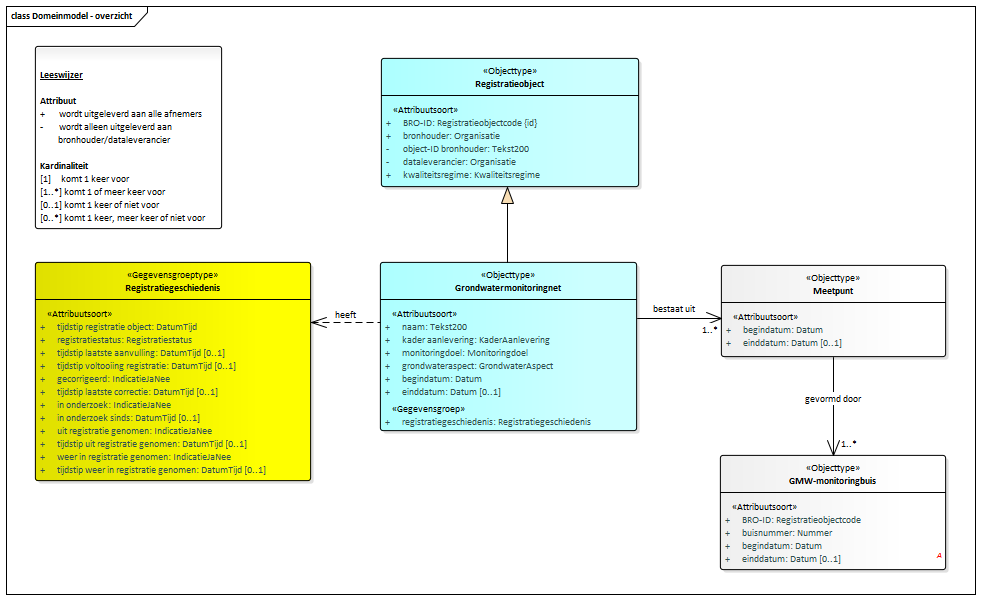
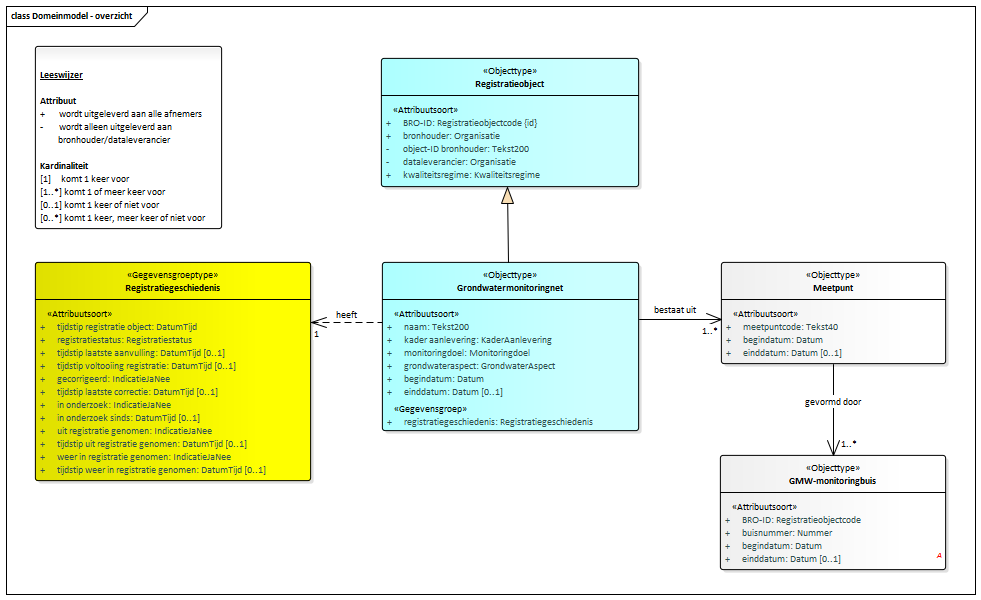
Conceptualmodel-GrondwatermonitoringnetGMN-0.9.1-2-20190328-20190815-160000

diff --git a/data/GMN-cat.html b/data/GMN-cat.html
@@ -1,15 +1,15 @@
 <section id="cat" class="normative" level="1">
    <h2>Gegevensdefinitie</h2>
    <p><b>Deze tekst is normatief.</b>
-      <!--Conceptualmodel-GrondwatermonitoringnetGMN-0.9.1-2-20190328-20190815-114349 imvertor 1.53.4--></p>
+      <!--Conceptualmodel-GrondwatermonitoringnetGMN-0.9.1-2-20190328-20190815-160000 imvertor 1.53.4--></p>
    <section id="" level="3">
       <h3>Het domeinmodel </h3>
       <div class="imageinfo overview"><img src="data/Images/EAID_16A72207_068F_4cb7_8848_6A51D3D09C6C.png" usemap="#imagemap-EAID_16A72207_068F_4cb7_8848_6A51D3D09C6C"><map name="imagemap-EAID_16A72207_068F_4cb7_8848_6A51D3D09C6C">
-            <area shape="rect" coords="721,357,946,265" alt="" href="#graph_EAID_FD4CB41D_3FA7_46c9_81A9_44C8869F16A6">
+            <area shape="rect" coords="721,364,946,262" alt="" href="#graph_EAID_FD4CB41D_3FA7_46c9_81A9_44C8869F16A6">
             <area shape="rect" coords="720,570,946,455" alt="" href="#graph_EAID_397885A2_C288_4430_A585_494C8A658C32">
             <area shape="rect" coords="35,481,311,262" alt="" href="#graph_EAID_BD3993BF_6865_40e4_96F8_64C29C82F35A">
             <area shape="rect" coords="381,187,639,58" alt="" href="#graph_EAID_AF36F25F_EDC0_4e99_A937_DF9E6889C6F0">
-            <area shape="rect" coords="380,431,637,262" alt="" href="#graph_EAID_A35817A4_9167_4620_BB25_5933C44F44E1"></map><p><b>Domeinmodel - overzicht</b></p>
+            <area shape="rect" coords="382,431,639,262" alt="" href="#graph_EAID_A35817A4_9167_4620_BB25_5933C44F44E1"></map><p><b>Domeinmodel - overzicht</b></p>
       </div>
    </section><a class="anchor" name="graph_EAID_AF36F25F_EDC0_4e99_A937_DF9E6889C6F0"></a><a class="anchor" name="global_class_BROGMN_Registratieobject"></a><section id="global_class_BROGMN_Registratieobject" level="3">
       <h3> Registratieobject</h3>
@@ -798,7 +798,69 @@
                      bestaat uit 1 of meer Meetpunt<br></td>
                </tr>
             </tbody>
-         </table><a class="anchor" name="detail_attribute_BROGMN_Meetpunt_begindatum"></a><section id="detail_attribute_BROGMN_Meetpunt_begindatum" level="5">
+         </table><a class="anchor" name="detail_attribute_BROGMN_Meetpunt_meetpuntcode"></a><section id="detail_attribute_BROGMN_Meetpunt_meetpuntcode" level="5">
+            <h5> meetpuntcode</h5>
+            
+            <table>
+               <colgroup width="30%"></colgroup>
+               <colgroup width="70%"></colgroup>
+               <tbody>
+                  <tr>
+                     <th>Type gegeven</th>
+                     <td>Attribuut</td>
+                  </tr>
+                  <tr>
+                     <th>Attribuut van</th>
+                     <td>Meetpunt</td>
+                  </tr>
+                  <tr>
+                     <th>Juridische status</th>
+                     <td>Authentiek</td>
+                  </tr>
+                  <tr>
+                     <th>Definitie</th>
+                     <td>
+                        
+                        <p xmlns="http://www.w3.org/1999/xhtml" xmlns:html="http://www.w3.org/1999/xhtml" xmlns:imvert="http://www.imvertor.org/schema/system">De code die het meetpunt identificeert binnen het grondwatermonitoringnet.</p>
+                        
+                     </td>
+                  </tr>
+                  <tr>
+                     <th>Kardinaliteit</th>
+                     <td>1</td>
+                  </tr>
+                  <tr>
+                     <th>Domein</th>
+                     <td></td>
+                  </tr>
+                  <tr>
+                     <th>&nbsp;&nbsp;Naam</th>
+                     <td>Tekst40</td>
+                  </tr>
+                  <tr>
+                     <th>&nbsp;&nbsp;Type</th>
+                     <td>Waardelijst uitbreidbaar</td>
+                  </tr>
+                  <tr>
+                     <th>&nbsp;&nbsp;Domein IMBRO/A</th>
+                     <td>OnvolledigeDatum</td>
+                  </tr>
+                  <tr>
+                     <th>Regels</th>
+                     <td>
+                        
+                        <p xmlns="http://www.w3.org/1999/xhtml" xmlns:html="http://www.w3.org/1999/xhtml" xmlns:imvert="http://www.imvertor.org/schema/system">De code is uniek binnen het grondwatermonitoringnet.</p>
+                        
+                     </td>
+                  </tr>
+                  <tr>
+                     <th>Materiële geschiedenis</th>
+                     <td>Nee</td>
+                  </tr>
+               </tbody>
+            </table>
+            
+         </section><a class="anchor" name="detail_attribute_BROGMN_Meetpunt_begindatum"></a><section id="detail_attribute_BROGMN_Meetpunt_begindatum" level="5">
             <h5> begindatum</h5>
             
             <table>
@@ -852,6 +914,14 @@
                      <td>
                         
                         <p xmlns="http://www.w3.org/1999/xhtml" xmlns:html="http://www.w3.org/1999/xhtml" xmlns:imvert="http://www.imvertor.org/schema/system">De begindatum van het meetpunt ligt niet voor de begindatum van het grondwatermonitoringnet.</p>
+                        
+                     </td>
+                  </tr>
+                  <tr>
+                     <th>Regels IMBRO/A</th>
+                     <td>
+                        
+                        <p xmlns="http://www.w3.org/1999/xhtml" xmlns:html="http://www.w3.org/1999/xhtml" xmlns:imvert="http://www.imvertor.org/schema/system">Domein IMBRO/A: OnvolledigeDatum.</p>
                         
                      </td>
                   </tr>
@@ -913,6 +983,16 @@
                         
                         <p xmlns="http://www.w3.org/1999/xhtml" xmlns:html="http://www.w3.org/1999/xhtml" xmlns:imvert="http://www.imvertor.org/schema/system">De einddatum van het meetpunt ligt na de begindatum van het meetpunt.
                            De einddatum van het meetpunt ligt niet na de einddatum van het grondwatermonitoringnet.
+                        </p>
+                        
+                     </td>
+                  </tr>
+                  <tr>
+                     <th>Regels IMBRO/A</th>
+                     <td>
+                        
+                        <p xmlns="http://www.w3.org/1999/xhtml" xmlns:html="http://www.w3.org/1999/xhtml" xmlns:imvert="http://www.imvertor.org/schema/system">Onder kwaliteitsregime IMBRO/A is dit gegeven altijd aanwezig.
+                           Domein IMBRO/A: OnvolledigeDatum.
                         </p>
                         
                      </td>
@@ -1131,7 +1211,15 @@
                      <th>Regels</th>
                      <td>
                         
-                        <p xmlns="http://www.w3.org/1999/xhtml" xmlns:html="http://www.w3.org/1999/xhtml" xmlns:imvert="http://www.imvertor.org/schema/system">De begindatum van het meetpunt ligt niet voor de begindatum van het meetpunt.</p>
+                        <p xmlns="http://www.w3.org/1999/xhtml" xmlns:html="http://www.w3.org/1999/xhtml" xmlns:imvert="http://www.imvertor.org/schema/system">De begindatum van de GMW-monitoringbuis ligt niet voor de begindatum van het meetpunt.</p>
+                        
+                     </td>
+                  </tr>
+                  <tr>
+                     <th>Regels IMBRO/A</th>
+                     <td>
+                        
+                        <p xmlns="http://www.w3.org/1999/xhtml" xmlns:html="http://www.w3.org/1999/xhtml" xmlns:imvert="http://www.imvertor.org/schema/system">Domein IMBRO/A: OnvolledigeDatum.</p>
                         
                      </td>
                   </tr>
@@ -1193,6 +1281,16 @@
                         
                         <p xmlns="http://www.w3.org/1999/xhtml" xmlns:html="http://www.w3.org/1999/xhtml" xmlns:imvert="http://www.imvertor.org/schema/system">De einddatum van de GMW-monitoringbuis ligt na de begindatum van de GMW-monitoringbuis.
                            De einddatum van de GMW-monitoringbuis ligt niet na de einddatum van het meetpunt.
+                        </p>
+                        
+                     </td>
+                  </tr>
+                  <tr>
+                     <th>Regels IMBRO/A</th>
+                     <td>
+                        
+                        <p xmlns="http://www.w3.org/1999/xhtml" xmlns:html="http://www.w3.org/1999/xhtml" xmlns:imvert="http://www.imvertor.org/schema/system">Onder kwaliteitsregime IMBRO/A is dit gegeven altijd aanwezig.
+                           Domein IMBRO/A: OnvolledigeDatum.
                         </p>
                         
                      </td>
@@ -2542,50 +2640,6 @@
                      <p xmlns="http://www.w3.org/1999/xhtml" xmlns:html="http://www.w3.org/1999/xhtml" xmlns:imvert="http://www.imvertor.org/schema/system">Het registeren van de gegevens van het object is voltooid. Alle gegevens zijn in de
                         registratie ondergrond vastgelegd en er kunnen geen nieuwe gegevens meer worden geregistreerd.
                      </p>
-                     
-                  </td>
-               </tr>
-            </tbody>
-         </table>
-         
-      </section><a class="anchor" name="graph_EAID_B2AE594E_84E6_4e9c_B44F_27F5B4AE6DE7"></a><a class="anchor" name="detail_class_BROGMN_RedenGeenWaarde"></a><section id="detail_class_BROGMN_RedenGeenWaarde" level="4">
-         <h4>Enumeratie details RedenGeenWaarde</h4>
-         
-         <table>
-            <colgroup width="50%"></colgroup>
-            <colgroup width="50%"></colgroup>
-            <tbody>
-               <tr>
-                  <td>Definitie</td>
-                  <td>
-                     
-                     <p xmlns="http://www.w3.org/1999/xhtml" xmlns:html="http://www.w3.org/1999/xhtml" xmlns:imvert="http://www.imvertor.org/schema/system">Geen datum bekend, met als vaste waarde <em>onbekend</em>.
-                     </p>
-                     
-                  </td>
-               </tr>
-            </tbody>
-         </table>
-         
-         <table>
-            <colgroup width="25%"></colgroup>
-            <colgroup width="25%"></colgroup>
-            <colgroup width="25%"></colgroup>
-            <colgroup width="25%"></colgroup>
-            <tbody>
-               <tr>
-                  <th>Naam</th>
-                  <th>IMBRO</th>
-                  <th>IMBRO/A</th>
-                  <th>Definitie</th>
-               </tr>
-               <tr>
-                  <td>onbekend</td>
-                  <td>✔</td>
-                  <td>✔</td>
-                  <td>
-                     
-                     <p xmlns="http://www.w3.org/1999/xhtml" xmlns:html="http://www.w3.org/1999/xhtml" xmlns:imvert="http://www.imvertor.org/schema/system">Onbekend.</p>
                      
                   </td>
                </tr>
